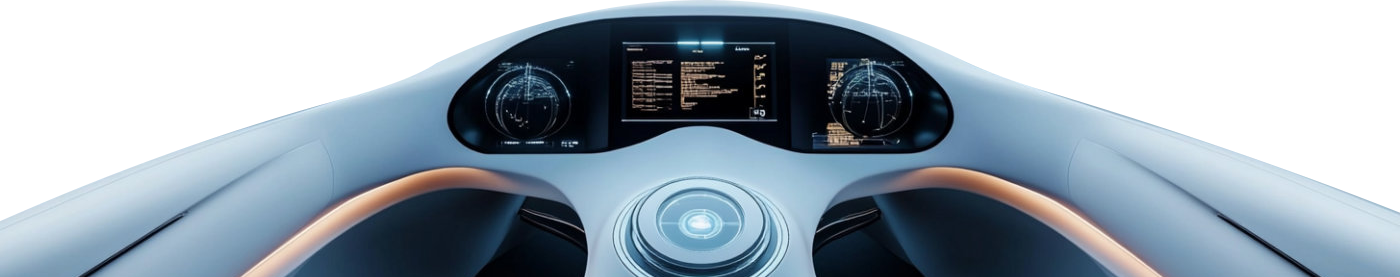
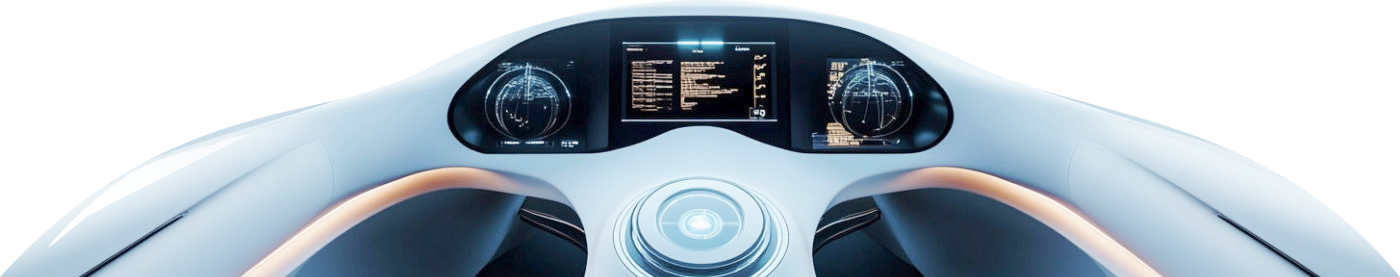
new gfx and dash and shading

diff --git a/game.js b/game.js
@@ -4,7 +4,10 @@ class Game {
     constructor() {
         this.scene = new THREE.Scene();
         this.camera = new THREE.PerspectiveCamera(75, window.innerWidth / window.innerHeight, 0.1, 1000);
-        this.renderer = new THREE.WebGLRenderer();
+        this.renderer = new THREE.WebGLRenderer({ 
+            antialias: true,
+            alpha: true 
+        });
         this.renderer.setSize(window.innerWidth, window.innerHeight);
         document.getElementById('game-container').appendChild(this.renderer.domElement);
 
@@ -82,8 +85,8 @@ class Game {
         this.renderer.setClearColor(0x000000, 1);
 
         // Add ambient light (only for main game scene)
-        const ambientLight = new THREE.AmbientLight(0xffffff, 0.5);
-        this.scene.add(ambientLight);
+        const ambient = new THREE.AmbientLight(0xffffff, 0.1);
+        this.scene.add(ambient);
 
         // Add directional light (only for main game scene)
         const directionalLight = new THREE.DirectionalLight(0xffffff, 0.5);
@@ -105,6 +108,17 @@ class Game {
             this.camera.updateProjectionMatrix();
             this.renderer.setSize(window.innerWidth, window.innerHeight);
         });
+
+        // Adjust renderer output for sRGB
+        this.renderer.outputEncoding = THREE.sRGBEncoding;
+
+        // If you prefer manually controlling gamma
+        this.renderer.gammaFactor = 2.2;
+        this.renderer.gammaOutput = true; // Deprecated in newer Three.js, use outputEncoding
+
+        // Disable tone mapping
+        this.renderer.toneMapping = THREE.NoToneMapping;
+        this.renderer.toneMappingExposure = 1; // or adjust as you like
     }
     createBackground() {
         // Create scene and camera
@@ -118,6 +132,7 @@ class Game {
             depthTest: false,
             depthWrite: false
         });
+        planeMaterial.map.encoding = THREE.sRGBEncoding;
         const backgroundMesh = new THREE.Mesh(planeGeometry, planeMaterial);
         this.bgScene.add(backgroundMesh);
 
@@ -215,6 +230,7 @@ class Game {
             depthWrite: false,
             color: 0xffffff
         });
+        planeMaterial.map.encoding = THREE.sRGBEncoding;
         this.dashOverlay = new THREE.Mesh(planeGeometry, planeMaterial);
         
         // Position at bottom of screen, allowing it to extend below if needed
